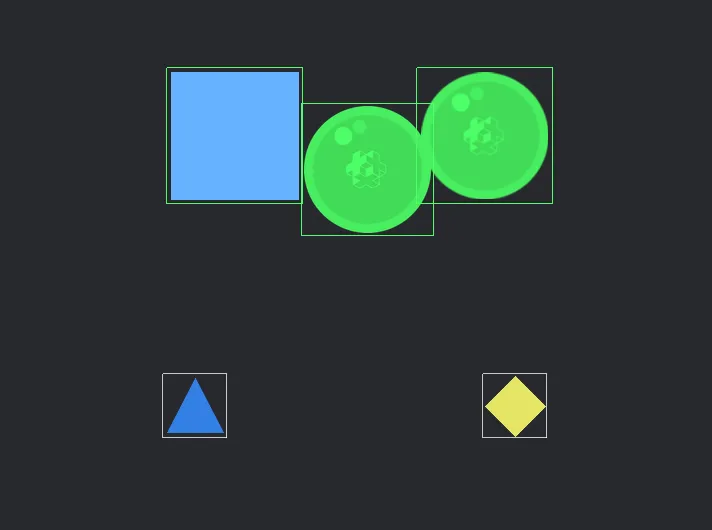
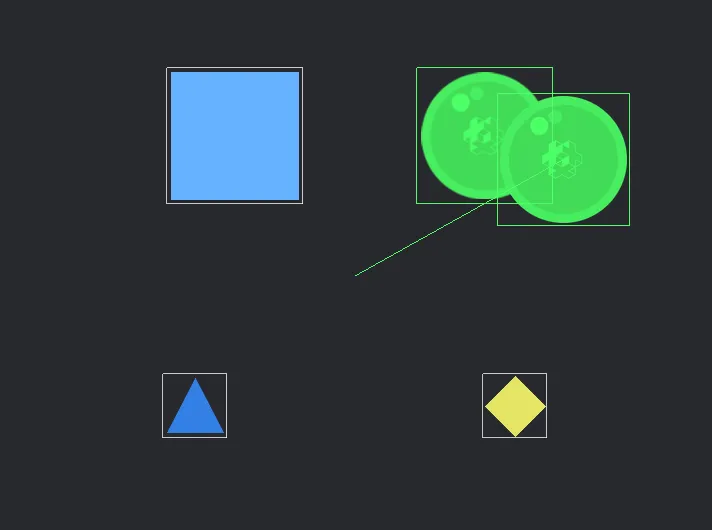
Added raycast query to the queries example.

Changed region(s): [[0.2163, 0.1811, 0.618, 0.483], [0.6798, 0.1509, 0.8961, 0.4528], [0.2163, 0.1208, 0.4326, 0.1509]]

diff --git a/physics/box2d_queries/example.md b/physics/box2d_queries/example.md
@@ -1,14 +1,14 @@
 ---
 tags: physics, box2d
 title: Box2D Queries
-brief: This example shows how to use Box2D world overlap queries to detect overlapping AABBs and shapes.
+brief: This example shows how to use Box2D world overlap and raycast queries.
 author: Defold Foundation
 scripts: box2d_queries.script
 thumbnail: thumbnail.webp
 ---
 
-This example places four static targets with box, circle, triangle, and diamond collision shapes, and a user controllable circle shape query.
-Move the mouse or drag to move the circle query area, watch the hit counts, and see the query overlays, target shapes, and AABB (Axis Aligned Bounding Box) outlines change color.
+This example places four static targets with box, circle, triangle, and diamond collision shapes, and user controllable AABB, circle, and raycast queries.
+Move the mouse or drag to move the query areas and aim the ray, watch the hit counts, and see the query overlays, ray, target shapes, and AABB (Axis Aligned Bounding Box) outlines change color.
 
 It ships with app manifests for Box2D V3 and Box2D V2 (legacy Defold version).
 The project is configured to build with the V3 app manifest by default, and the same script works with both Box2D backends.
@@ -16,19 +16,20 @@ The project is configured to build with the V3 app manifest by default, and the 
 ## What You'll Learn
 
 - How to get the active Box2D world with `b2d.get_world()`.
-- How to build AABB and circle overlap queries.
-- How to use `b2d.world.overlap_aabb()` and `b2d.world.overlap_shape()`.
+- How to build AABB, circle, and raycast queries.
+- How to use `b2d.world.overlap_aabb()`, `b2d.world.overlap_shape()`, and `b2d.world.cast_ray()`.
 - How to read query result tables and use them.
 - How to handle the Box2D V2 and V3 query result table differences.
-- How to draw temporary AABB helper lines through the render socket.
+- How to draw temporary AABB and ray helper lines through the render socket.
 
 ## Setup
 
 The collection contains one `controller` game object with the query script, and two visual query overlays: one AABB box and one circle shape sprite.
 The overlay objects only show where the scripted queries are being run - they do not have collision objects.
+The raycast is drawn as a temporary helper line from the center of the scene to the pointer.
 
 Additionally, there are four static target objects with collision objects with shapes: one box, one circle, and two convex hull collision shapes - a triangle and a diamond (rotated square),
-and sprites for visual representation of the shape. The line rectangles in runtime show the target broad-phase AABBs used by the query feedback.
+and sprites for visual representation of the shape. The target sprites highlight exact shape and raycast hits, while the line rectangles highlight the target broad-phase AABBs hit by the AABB query.
 
 ![setup](setup.png)
 
@@ -36,8 +37,8 @@ The `game.project` of this example is configured to build with `/box2d_v3.appman
 
 ## How It Works
 
-The controller stores the mouse or touch position and uses `update()` to drive the query shapes each frame.
-An AABB and a circle are tested directly against the Box2D world at the pointer position.
+The controller stores the mouse or touch position and uses `update()` to drive the queries each frame.
+An AABB and a circle are tested directly against the Box2D world at the pointer position, and a ray is cast from the scene center to the pointer.
 
 Each query uses the Box2D scripting API directly.
 
@@ -46,6 +47,8 @@ They immediately return the fixtures or shapes hit by the query for the current 
 
 The AABB query builds a table with `lower` and `upper` vector fields, then passes it to `b2d.world.overlap_aabb()`.
 The circle query builds a shape table with `type`, `center`, and `radius`, then passes it to `b2d.world.overlap_shape()`.
+The raycast passes an origin position and a translation vector to `b2d.world.cast_ray()`.
+The translation is the direction and length of the segment, not the end position.
 
 The collection has one query controller script.
 The script reads bodies directly from fixture hits in V2, while in V3 it reads bodies from shape hits with `b2d.shape.get_body()`.
@@ -53,11 +56,12 @@ The hit body's position is then matched against the cached target positions so t
 The script caches the four static target positions and their defined AABBs at startup.
 
 The important backend difference is the query result format:
-Box2D V2 returns fixture hit tables, and each hit has the body available directly as `hit.body`.
-Box2D V3 returns shape hit tables instead, so the script reads `hit.shape_id` and calls `b2d.shape.get_body(hit.shape_id)` to get the owning body.
+Box2D V2 overlap results expose the body directly as `hit.body`, while V2 raycast results expose it through `hit.fixture.body`.
+Box2D V3 overlap results expose `hit.shape_id`, while V3 raycast results expose `hit.shape.shape_id`; both are passed to `b2d.shape.get_body()` to get the owning body.
 After that, the rest of the example uses the body in the same way for both backends.
 
-In `update()`, the query controller directly moves the query overlay sprites, changes target sprite colors, and draws the helper outlines.
+In `update()`, the query controller directly moves the query overlay sprites, changes target sprite colors, and draws the helper outlines and ray.
 The controller updates the count label to display how many fixtures or shapes each query detects.
-The target AABB helper outlines are drawn from the same defined AABB data used by the visual feedback.
-The helper visual outlines are created using `draw_line` messages sent to `@render:` every frame, which then draws the debug lines on top.
+The target sprites are highlighted by the exact circle shape query and raycast results.
+The target AABB helper outlines are highlighted separately by the AABB query results.
+The helper visual outlines and ray are created using `draw_line` messages sent to `@render:` every frame, which then draws the debug lines on top.